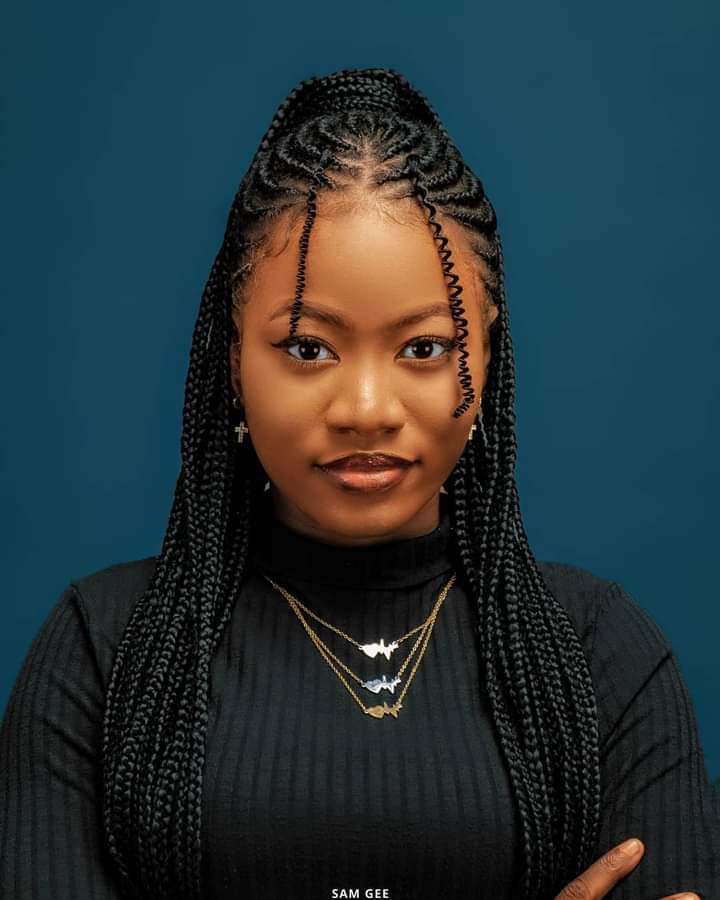
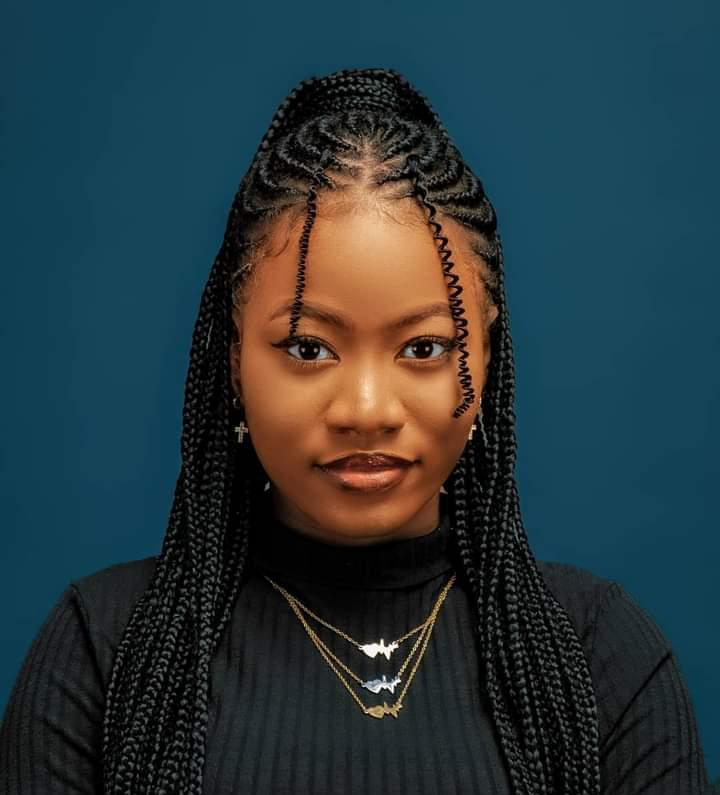
Pushs

diff --git a/about.html b/about.html
@@ -168,17 +168,10 @@
        </div>
       </div>
       <div class="glass team-card reveal">
-        <div class="photo"><img src="Media/avatars/team-female-4.jpg" alt="David Okafor, Operations Director"></div>
+        <div class="photo"><img src="Media/avatars/team-male-3.jpg" alt="David Okafor, Operations Director"></div>
         <div class="info">
-          <h3>Grace, Michael</h3>
+          <h3>Samson, Michael</h3>
           <span class="role">Operations Director</span>
-        </div>
-      </div>
-      <div class="glass team-card reveal">
-        <div class="photo"><img src="Media/avatars/women-65.jpg" alt="Sofia Marino, Head of Quality Assurance"></div>
-        <div class="info">
-          <h3>Dominion, Sorinola</h3>
-          <span class="role">Quality Assurance Lead</span>
         </div>
       </div>
       <div class="glass team-card reveal">
@@ -187,6 +180,13 @@
           <h3>Boluwatife, David</h3>
           <span class="role">HR & Partners Manager</span>
        </div>
+      </div>
+      <div class="glass team-card reveal">
+        <div class="photo"><img src="Media/avatars/team-female-4.jpg" alt="Sofia Marino, Head of Quality Assurance"></div>
+        <div class="info">
+          <h3>Grace, Samson-M.</h3>
+          <span class="role">Quality Assurance Lead</span>
+        </div>
       </div>
     </div>
   </div>
